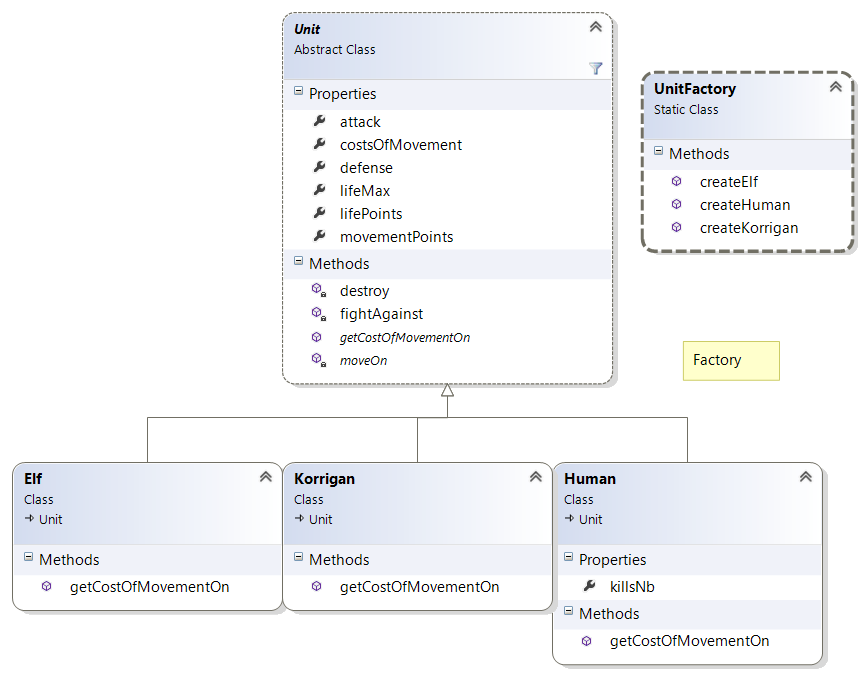
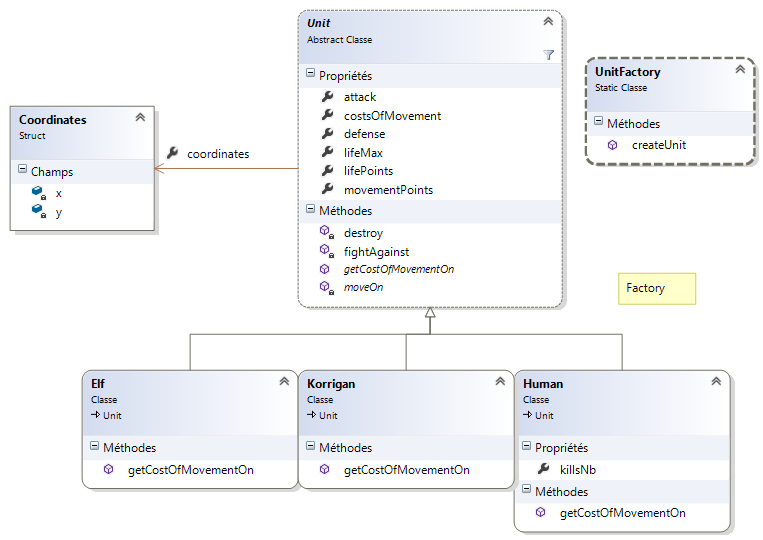
[Bedbihan][rapport1] factory

diff --git a/report/modelisation/input/modelisation.tex b/report/modelisation/input/modelisation.tex
@@ -6,7 +6,7 @@
 
 		\subsubsection{Monteur : création d'une partie}
 
-		\textbf{Bedbihan} permet aux joueurs de jouer différentes type de parties. Ainsi il existe différentes manières de construire une partie en fonction du type désiré. Néanmoins ces créations passent par des étapes similaires : création de la carte, créations des unités, etc. C'est pourquoi sur  la création de la partie est assurée par le patron de conception \textbf{Monteur}. Ce patron de conception nous permet de séparer la conception de l'objet \emph{Game} de sa représentation. Ainsi cette étapes gagne en flexibilité. 
+		\textbf{Bedbihan} permet aux joueurs de jouer différentes type de parties. Ainsi il existe différentes manières de construire une partie en fonction du type désiré. Néanmoins ces créations passent par des étapes similaires : création de la carte, créations des unités, etc. C'est pourquoi sur  la création de la partie est assurée par le patron de conception \textbf{Monteur}. Ce patron de conception nous permet de séparer la conception de l'objet \emph{Game} de sa représentation. Comme indiqué la sur la FIGURE \ref{fig:builder}, la création de la partie sera dirigé par le \emph{GameCreator} qui utilisera le monteur adéquat en fonction de la situation. Ainsi d'une part on minimise le code en évitant des répétitions et de l'autre on gagne en flexibilité : il sera facile de créer un type de partie différent. 
 
 		\begin{figure}[h]
 		\begin{center}
@@ -18,20 +18,23 @@
 
 		\subsubsection{Fabrique : création de différents peuples}
 
-		
-		La création des peuples est assurée par le patron de conception de création \textbf{Fabrique}. Ce patron de conception nous permettra de créer l'armée adéquate en fonction du peuple choisie par le joueur au lancement de la partie. 
-		\subsubsection{Poids-Mouche : ne sert a rien}
+		\begin{figure}[h]
+			\begin{center}
+				\includegraphics[width=0.5\textwidth]{figure/factory.png}
+			\end{center}
+			\caption{Création des unités : patron de conception Factory}
+			\label{fig:strategy}
+		\end{figure}
+
+		Chaque joueur posséde une armée composé d'un certain nombre d'unité d'un même peuple, selon le type de parties. Ces untiés sont soit des Elfs, des humains ou des Korrigans. Cela se traduit, dans notre modélisation, par l'objet \emph{Player} qui posséde une \emph{Faction}, elle même composé d'objets \emph{unité}. l'\emph{unité} est une classe abstraite implémentée par trois classes concretes réprésentants les trois type d'unités disponible. La création de ces unité est assurée par le patron de conception \textbf{Fabrique}. Ce patron de conception nous permettra de créer l'armée adéquate en fonction du peuple choisie par le joueur au lancement de la partie. Il asure une modularité du code, car sa fonction \emph{CreateUnit} retourne un type abstrait. Ainsi, l'appelant n'as pas besoin de se préoccuper du type de retour.  A MODIFIER
+
+
+
+		\subsubsection{Poids-Mouche : gestion des cases}
 
 		\subsubsection{Stratégie : création des différents type de carte}
 
 
-%		\begin{figure}[h]
-%			\begin{center}
-%				\includegraphics[width=0.5\textwidth]{figure/strategy.png}
-%			\end{center}
-%			\caption{Implémentations du plateau de jeu : patron de conception strategie}
-%			\label{fig:strategy}
-%		\end{figure}
 
 		La création des cartes, de tailles fixes mais dont la composition des dalles est implémentée de maniére aléatoire, repose sur le patron de conception \emph{stratégie}. Ce patron de conception nous permet de choisir de manière précise l'algorithme de création de carte désiré. De plus, il permet une grande flexibilité pour définir de nouveaux types de cartes.
 

diff --git a/BedBihan/UnitFactory.cs b/BedBihan/UnitFactory.cs
@@ -7,19 +7,10 @@ namespace BedBihan
 {
     public static class UnitFactory
     {
-        public void createElf()
+        public void createUnit(String TypeUnit)
         {
             throw new System.NotImplementedException();
         }
 
-        public void createHuman()
-        {
-            throw new System.NotImplementedException();
-        }
-
-        public void createKorrigan()
-        {
-            throw new System.NotImplementedException();
-        }
     }
 }
